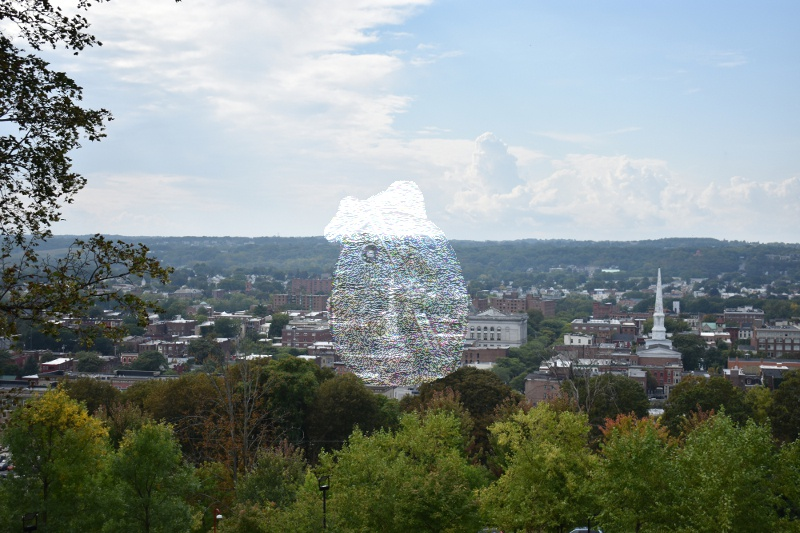
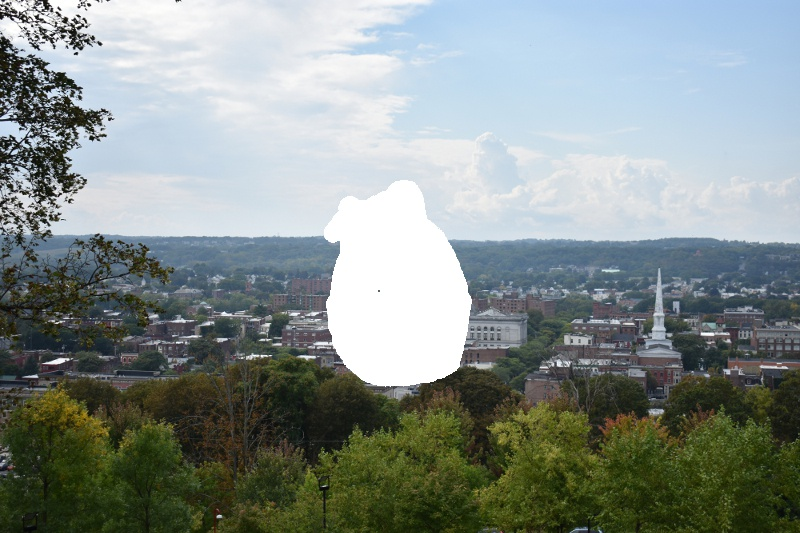
Height to Width

Changed region(s): [[0.4062, 0.3902, 0.5938, 0.7505]]

diff --git a/hw1/one.py b/hw1/one.py
@@ -23,8 +23,10 @@ def poisson(source,target, bitmask):
 
 	for y in range(height):
 		for x in range(width):
+
+			index = x + y * width
+
 			if bitmask[y,x] == 1:
-				index = x + y * width
 				tempGradient = np.array([0.0, 0.0, 0.0])
 				coeff[index, index] = 4
 				grad = source[y, x] * 4
@@ -50,7 +52,7 @@ def poisson(source,target, bitmask):
 					grad-= source[y, x - 1]
 
 					if bitmask[y, x - 1] == 1:
-						coeff[index, index - height] = -1
+						coeff[index, index - width] = -1
 					else:
 						tempGradient += target[y, x - 1]
 
@@ -58,14 +60,13 @@ def poisson(source,target, bitmask):
 					grad -= source[y, x + 1] 
 
 					if bitmask[y, x + 1] == 1:
-						coeff[index, index + height] = -1
+						coeff[index, index + width] = -1
 					else:
 						tempGradient += target[y, x + 1]
 
 				gradients[index] = grad + tempGradient
 
 			else:
-				index = x + y * width
 				gradients[index] = target[y, x]
 
 
